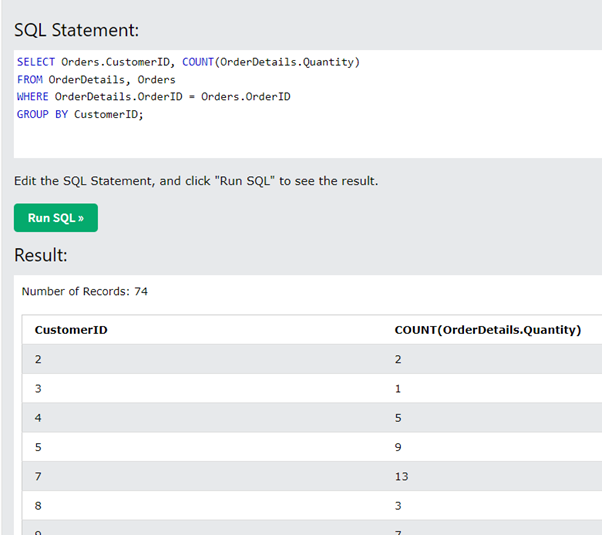
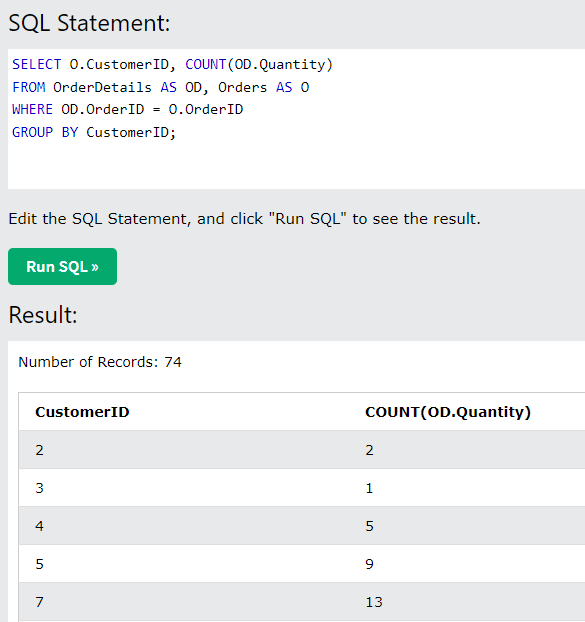
pr1

diff --git a/_posts/2022-01-20-SQL_practice1.md b/_posts/2022-01-20-SQL_practice1.md
@@ -34,9 +34,9 @@ GROUP BY country;
 <br><br>
 
 ```sql
-SELECT Orders.CustomerID, COUNT(OrderDetails.Quantity)
-FROM OrderDetails, Orders
-WHERE OrderDetails.OrderID = Order.OrderID
+SELECT O.CustomerID, COUNT(OD.Quantity)
+FROM OrderDetails AS OD, Orders AS O
+WHERE OD.OrderID = O.OrderID
 GROUP BY CustomerID;
 ```
 
@@ -56,9 +56,10 @@ GROUP BY CustomerID;
 <br>
 
 ```sql
-SELECT Orders.OrderDate, COUNT(OrderDetails.Quantity)
-FROM Orders, Employees, OrderDetails
-WHERE Orders.EmployeeID = Employees.EmployeeID
+SELECT O.OrderDate,
+	COUNT(OD.Quantity)
+FROM Orders AS O, Employees AS E, OrderDetails AS OD
+WHERE O.EmployeeID = E.EmployeeID
 GROUP BY OrderDate;
 ```
 
@@ -73,11 +74,11 @@ GROUP BY OrderDate;
 <br>
 
 ```sql
-SELECT Orders.EmployeeID, Employees.FirstName, 
-COUNT(OrderDetails.Quantity)
-FROM Orders, Employees, OrderDetails
-WHERE Orders.EmployeeID = Employees.EmployeeID
-GROUP BY Employees.EmployeeID;
+SELECT O.EmployeeID, 
+	COUNT(OD.Quantity)
+FROM Orders AS O, Employees AS E, OrderDetails AS OD
+WHERE O.EmployeeID = E.EmployeeID
+GROUP BY E.EmployeeID;
 ```
 
 <br>
